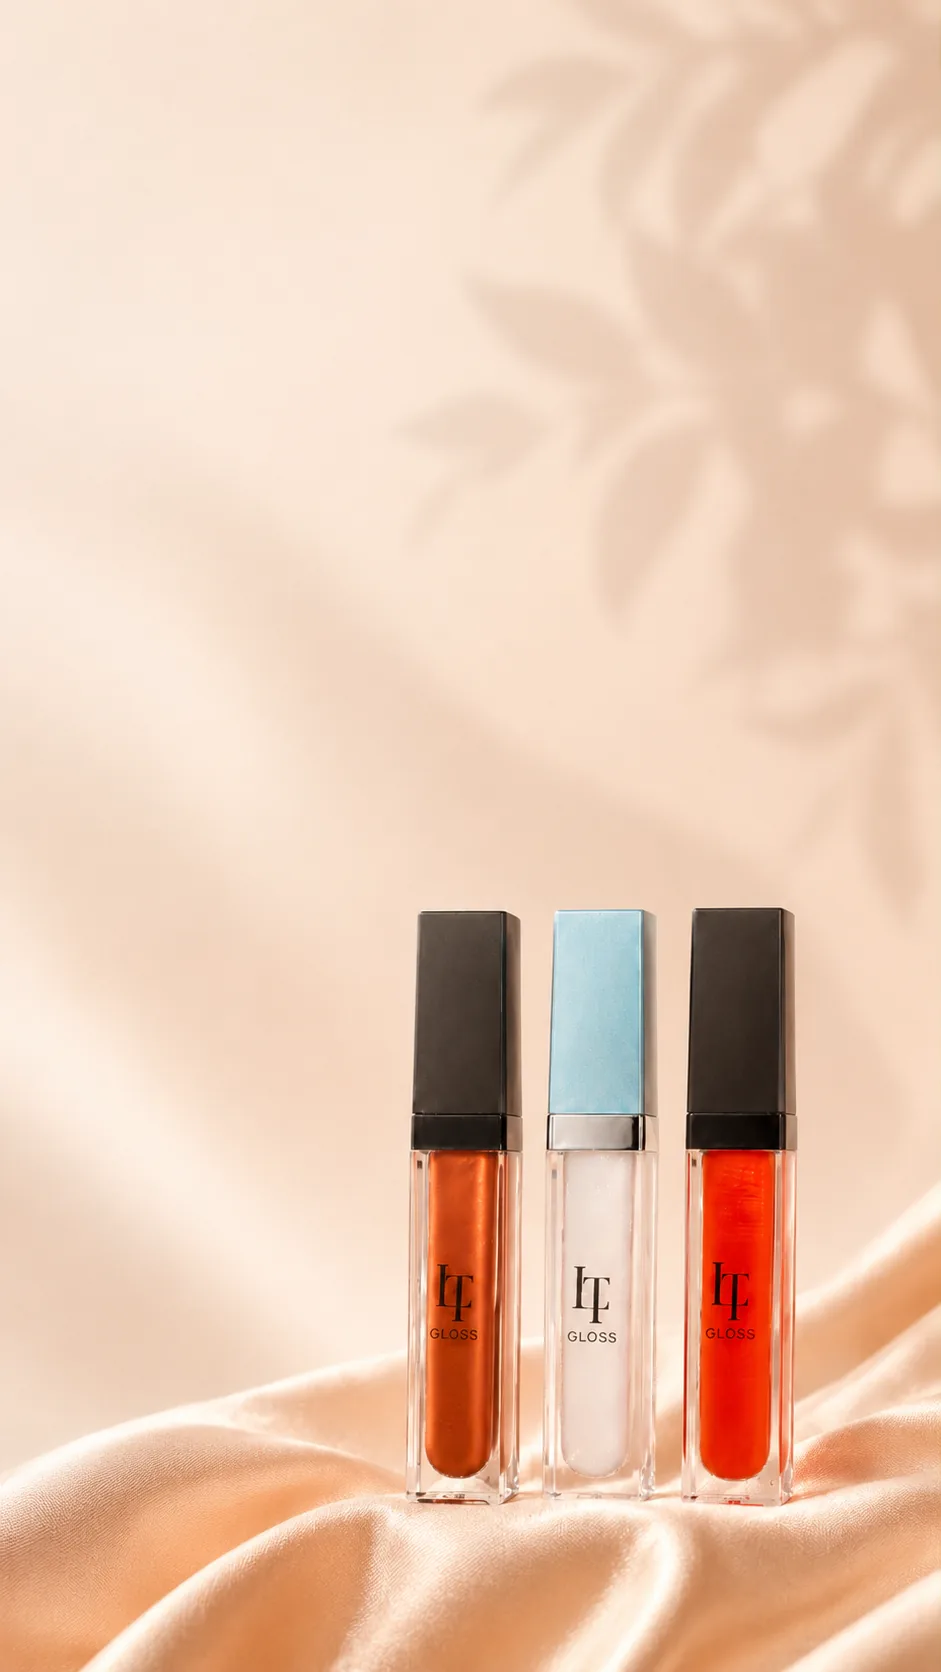
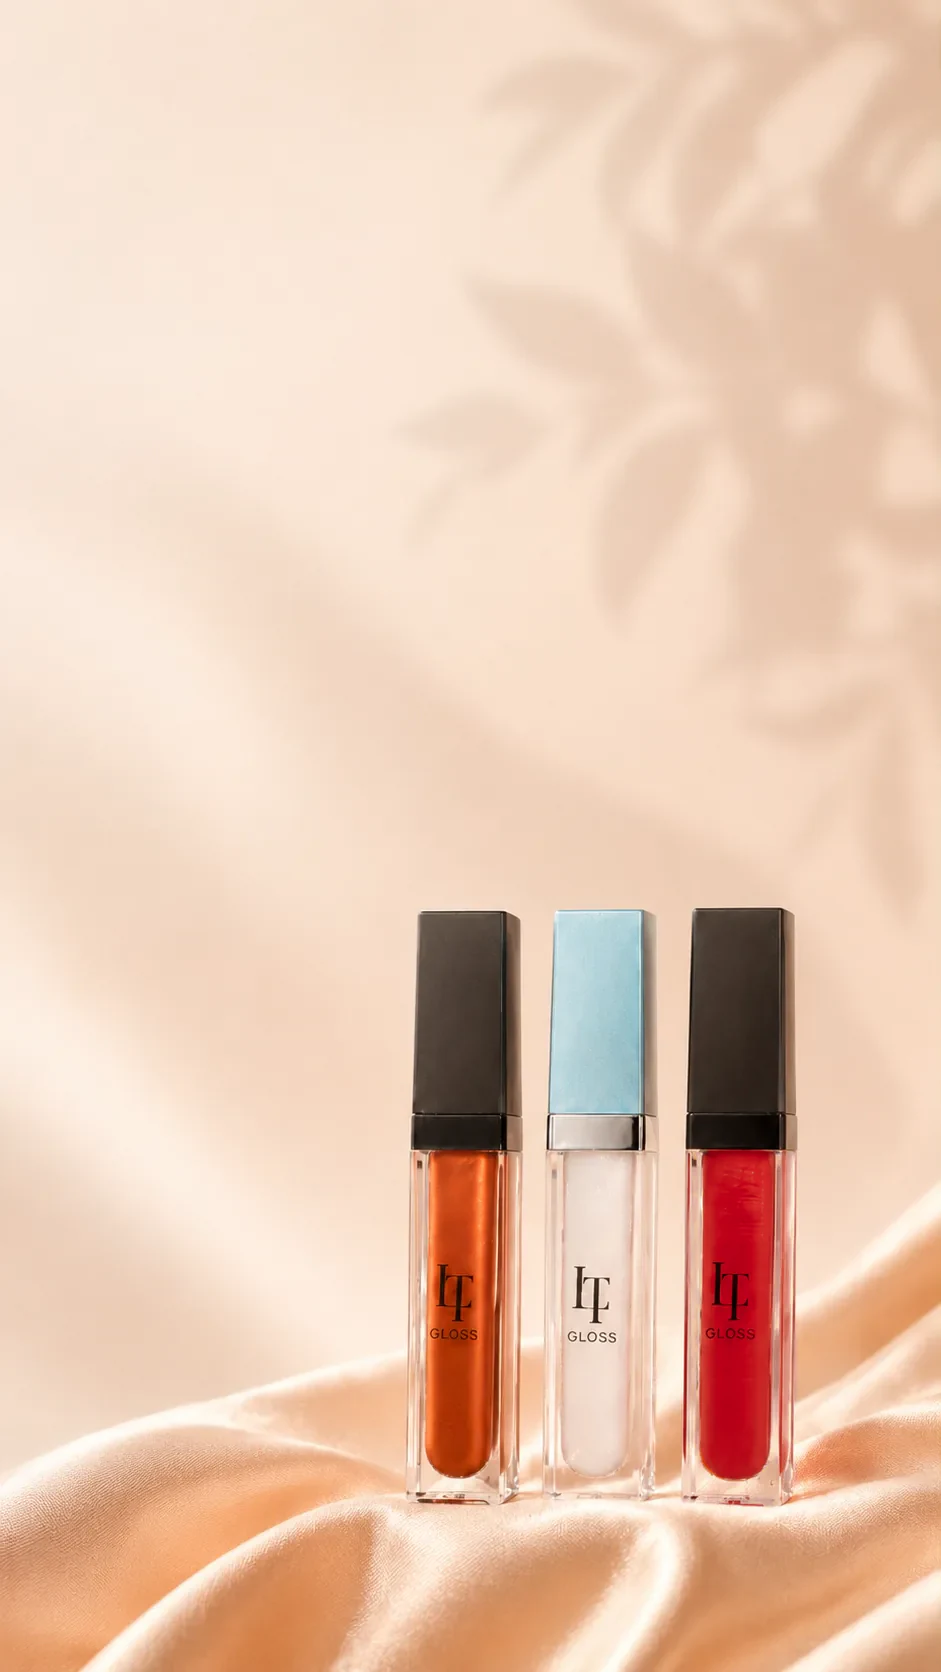
LT Gloss: Pôr do Sol vira Cereja
Pedido do Thiago (21/10/2026): é o mesmo produto, só muda a cor. Nome,
cores (#c0141e, escura #770c13, preço #a3111a), foto do produto com o
cenário em tons de cereja e o gloss recolorido no kit, nos banners e nas
cenas. O link da Braip (pla0xexw) continua o mesmo.

Changed region(s): [[0.7396, 0.6842, 0.8629, 0.9019]]

diff --git a/index.html b/index.html
@@ -468,8 +468,8 @@
           <article class="offer-card offer-card--sun reveal">
             <div class="offer-card__media">
               <img
-                src="./assets/por-do-sol.webp"
-                alt="LT Gloss Pôr do Sol"
+                src="./assets/cereja.webp"
+                alt="LT Gloss Cereja"
                 width="1086"
                 height="1448"
                 loading="lazy"
@@ -483,7 +483,7 @@
                 <span class="shade-dot shade-dot--x" aria-hidden="true"></span>
                 <span>Tom vibrante</span>
               </div>
-              <h3>LT Gloss <em>Pôr do Sol</em></h3>
+              <h3>LT Gloss <em>Cereja</em></h3>
               <p>Um tom quente e marcante para iluminar os lábios.</p>
               <div class="offer-card__price" aria-label="Preço: 49 reais e 90 centavos">
                 <strong><small>R$</small> 49,90</strong>
@@ -492,9 +492,9 @@
               <a
                 class="offer-card__cta"
                 href="https://ev.braip.com/checkout/pla0xexw/chex0ork"
-                aria-label="Comprar LT Gloss Pôr do Sol"
+                aria-label="Comprar LT Gloss Cereja"
               >
-                Comprar Pôr do Sol <span aria-hidden="true">↗</span>
+                Comprar Cereja <span aria-hidden="true">↗</span>
               </a>
             </div>
           </article>
@@ -591,7 +591,7 @@
                 <span>Leve os três</span>
               </div>
               <h3>Kit Leve 3 <em>1 de cada cor</em></h3>
-              <p>Pôr do Sol, Cacau e Véu juntos em uma promoção especial.</p>
+              <p>Cacau, Cereja e Véu juntos em uma promoção especial.</p>
               <div class="offer-card__price offer-card__price--promo" aria-label="Preço promocional: 89 reais e 90 centavos">
                 <span class="offer-card__old-price">De R$ 149,70</span>
                 <strong><small>R$</small> 89,90</strong>
@@ -678,7 +678,7 @@
           <details>
             <summary>Quais tonalidades estarão disponíveis?</summary>
             <p>
-              Você pode escolher entre Pôr do Sol, Cacau e Véu ou aproveitar o
+              Você pode escolher entre Cacau, Cereja e Véu ou aproveitar o
               Kit Leve 3 com uma unidade de cada tonalidade.
             </p>
           </details>

diff --git a/styles.css b/styles.css
@@ -923,9 +923,9 @@ input:focus-visible {
 }
 
 .offer-card--sun {
-  --offer-accent: #ee5a12;
-  --offer-accent-dark: #9d300d;
-  --offer-glow: rgba(238, 90, 18, 0.28);
+  --offer-accent: #c0141e;
+  --offer-accent-dark: #770c13;
+  --offer-glow: rgba(192, 20, 30, 0.28);
 }
 
 .offer-card--cacao {
@@ -1116,7 +1116,7 @@ input:focus-visible {
 }
 
 .shade-dot--x {
-  background: #f05b13;
+  background: #c0141e;
 }
 
 .shade-dot--y {
@@ -1238,7 +1238,7 @@ input:focus-visible {
 }
 
 .offer-card--sun .offer-card__price strong {
-  color: #c8430e;
+  color: #a3111a;
 }
 
 .offer-card--cacao .offer-card__price strong {

diff --git a/admin/index.html b/admin/index.html
@@ -170,7 +170,7 @@
                 </label>
                 <label class="field">
                   <span>Complemento</span>
-                  <input id="f-subtitle" type="text" placeholder="Ex.: Pôr do Sol" />
+                  <input id="f-subtitle" type="text" placeholder="Ex.: Cereja" />
                 </label>
               </div>
               <label class="field">

diff --git a/admin.js b/admin.js
@@ -353,7 +353,7 @@ const NEW_PRODUCT = {
   tag: "1 unidade",
   featured: false,
   promo: "",
-  image: { src: "./assets/por-do-sol.webp", alt: "", width: 1086, height: 1448 },
+  image: { src: "./assets/cereja.webp", alt: "", width: 1086, height: 1448 },
   shade: { label: "", dots: ["#b75f45"] },
   title: "LT Gloss",
   subtitle: "",
